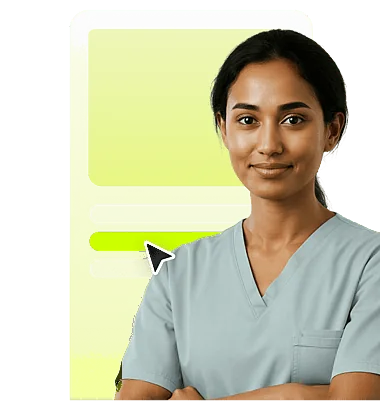
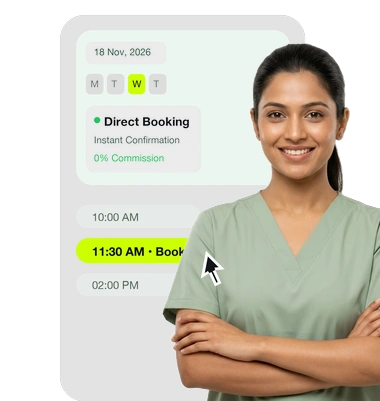
feat: localize booking online card with Indian healthcare professional, high-DPI appointment booking UI, and neon action button

diff --git a/index.html b/index.html
@@ -1548,13 +1548,13 @@
                       </div>
                       <div class="h-mixed-two-third-card__right">
                         <div class="h-image h-mixed-two-third-card__desktop-image"><img class="" style=""
-                            src="./assets/images/card-booking-online-desktop.webp"
-                            srcset="./assets/images/card-booking-online-desktop.webp"
+                            src="./assets/images/card-booking-online-desktop.webp?v=indian1"
+                            srcset="./assets/images/card-booking-online-desktop.webp?v=indian1"
                             alt="Online booking website for clinics and hotels" loading="lazy" fetchpriority="low">
                         </div>
                         <div class="h-image h-mixed-two-third-card__mobile-image"><img class="" style=""
-                            src="./assets/images/card-booking-online-mobile.webp"
-                            srcset="./assets/images/card-booking-online-mobile.webp" alt="" loading="lazy"
+                            src="./assets/images/card-booking-online-mobile.webp?v=indian1"
+                            srcset="./assets/images/card-booking-online-mobile.webp?v=indian1" alt="" loading="lazy"
                             fetchpriority="low"></div>
                       </div>
                     </div>
